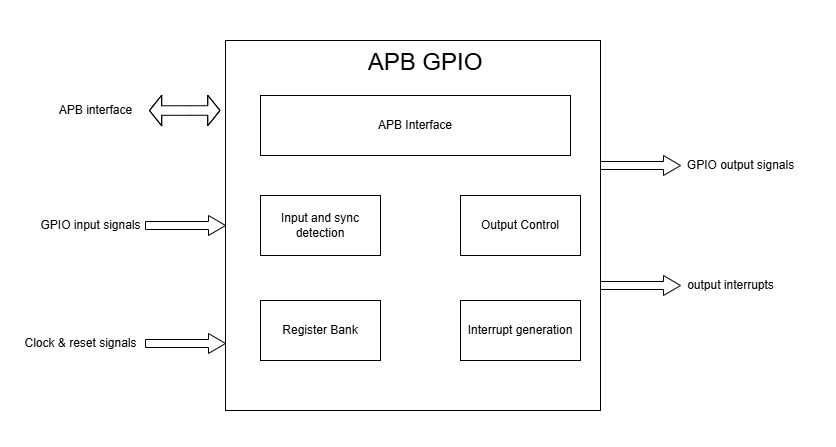
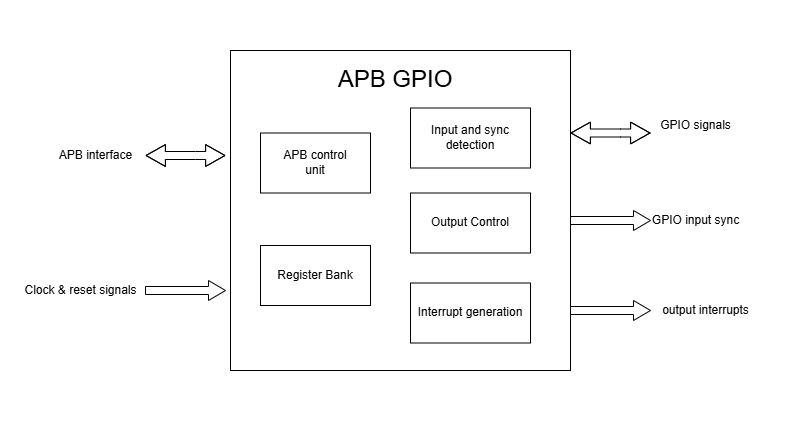
Updated diagrams and formatting in GPIO docs

diff --git a/docs/doc-src/ip-blocks/apb_gpio.rst b/docs/doc-src/ip-blocks/apb_gpio.rst
@@ -17,7 +17,7 @@
    ^^^^^^^
 .. _apb_gpio:
 
-APB_GPIO
+APB GPIO
 ========
 The General Purpose Input/Output (GPIO) IP block supports S/W access
 to read and write the values on selected I/O, and configuring selected
@@ -49,6 +49,15 @@ The figure below is a high-level block diagram of the APB GPIO module:-
 
    APB GPIO Block Diagram
 
+The figure below depicts the connections between the GPIO and rest of the modules in Core-V-MCU:-
+
+.. figure:: apb_gpio_soc_connections.png
+   :name: APB_GPIO_SoC_Connections
+   :align: center
+   :alt:
+
+   APB GPIO Core-V-MCU connections diagram
+
 The APB GPIO IP consists of the following key components:
 
 APB control logic
@@ -70,10 +79,15 @@ A dual-stage synchronizer prevents metastability issues when sampling external i
 
 Interrupt Generation Logic
 ^^^^^^^^^^^^^^^^^^^^^^^^^^
+GPIO pins can be used to receive the interrupt from the external device. Each GPIO pin may be configured for interrupt.
+
 The interrupt logic detects events based on the configured interrupt type for each pin:
   - Edge detection circuitry for rising and falling edges
   - Level detection for active-high and active-low signals
   - Interrupt blocking mechanism to prevent repeated level interrupts
+
+On detection of an event based on configuration, the corresponding interrupt pin is raised.
+APB master can acknowledge the interrupt by writing to the register REG_INTACK.
 
 Programming View Model
 ----------------------
@@ -117,6 +131,7 @@ output levels, and configure various GPIO settings.
 REG_SETGPIO
 ^^^^^^^^^^^
   - Address Offset: 0x000
+
 +----------------+--------------+----------+-------------+----------------------------------+
 | Field          | Bits         | Type     | Default     | Description                      |
 +================+==============+==========+=============+==================================+
@@ -126,6 +141,7 @@ REG_SETGPIO
 REG_CLRGPIO
 ^^^^^^^^^^^
   - Address Offset: 0x004
+
 +----------------+--------------+----------+-------------+----------------------------------+
 | Field          | Bits         | Type     | Default     | Description                      |
 +================+==============+==========+=============+==================================+
@@ -135,6 +151,7 @@ REG_CLRGPIO
 REG_TOGGPIO
 ^^^^^^^^^^^
   - Address Offset: 0x008
+
 +----------------+--------------+----------+-------------+----------------------------------+
 | Field          | Bits         | Type     | Default     | Description                      |
 +================+==============+==========+=============+==================================+
@@ -144,6 +161,7 @@ REG_TOGGPIO
 REG_PIN0
 ^^^^^^^^
   - Address Offset: 0x010
+
 +----------------+--------------+----------+-------------+----------------------------------+
 | Field          | Bits         | Type     | Default     | Description                      |
 +================+==============+==========+=============+==================================+
@@ -153,6 +171,7 @@ REG_PIN0
 REG_PIN1
 ^^^^^^^^
   - Address Offset: 0x014
+
 +----------------+--------------+----------+-------------+----------------------------------+
 | Field          | Bits         | Type     | Default     | Description                      |
 +================+==============+==========+=============+==================================+
@@ -163,6 +182,7 @@ REG_PIN1
 REG_PIN2
 ^^^^^^^^
   - Address Offset: 0x018
+
 +----------------+--------------+----------+-------------+----------------------------------+
 | Field          | Bits         | Type     | Default     | Description                      |
 +================+==============+==========+=============+==================================+
@@ -173,6 +193,7 @@ REG_PIN2
 REG_PIN3
 ^^^^^^^^
   - Address Offset: 0x01C
+
 +----------------+--------------+----------+-------------+----------------------------------+
 | Field          | Bits         | Type     | Default     | Description                      |
 +================+==============+==========+=============+==================================+
@@ -183,6 +204,7 @@ REG_PIN3
 REG_OUT0
 ^^^^^^^^
   - Address Offset: 0x020
+
 +----------------+--------------+----------+-------------+----------------------------------+
 | Field          | Bits         | Type     | Default     | Description                      |
 +================+==============+==========+=============+==================================+
@@ -192,6 +214,7 @@ REG_OUT0
 REG_OUT1
 ^^^^^^^^
   - Address Offset: 0x024
+
 +----------------+--------------+----------+-------------+----------------------------------+
 | Field          | Bits         | Type     | Default     | Description                      |
 +================+==============+==========+=============+==================================+
@@ -202,6 +225,7 @@ REG_OUT1
 REG_OUT2
 ^^^^^^^^
   - Address Offset: 0x028
+
 +----------------+--------------+----------+-------------+----------------------------------+
 | Field          | Bits         | Type     | Default     | Description                      |
 +================+==============+==========+=============+==================================+
@@ -212,6 +236,7 @@ REG_OUT2
 REG_OUT3
 ^^^^^^^^
   - Address Offset: 0x02C
+
 +----------------+--------------+----------+-------------+----------------------------------+
 | Field          | Bits         | Type     | Default     | Description                      |
 +================+==============+==========+=============+==================================+
@@ -222,6 +247,7 @@ REG_OUT3
 REG_SETSEL
 ^^^^^^^^^^
   - Address Offset: 0x030
+
 +----------------+--------------+----------+-------------+----------------------------------+
 | Field          | Bits         | Type     | Default     | Description                      |
 +================+==============+==========+=============+==================================+
@@ -232,6 +258,7 @@ REG_SETSEL
 REG_RDSTAT
 ^^^^^^^^^^
   - Address Offset: 0x034
+
 +----------------+--------------+----------+-------------+----------------------------------+
 | Field          | Bits         | Type     | Default     | Description                      |
 +================+==============+==========+=============+==================================+
@@ -254,6 +281,7 @@ REG_RDSTAT
 REG_SETDIR
 ^^^^^^^^^^
   - Address Offset: 0x038
+
 +----------------+--------------+----------+-------------+----------------------------------+
 | Field          | Bits         | Type     | Default     | Description                      |
 +================+==============+==========+=============+==================================+
@@ -269,6 +297,7 @@ REG_SETDIR
 REG_SETINT
 ^^^^^^^^^^
   - Address Offset: 0x03C
+
 +----------------+--------------+----------+-------------+----------------------------------+
 | Field          | Bits         | Type     | Default     | Description                      |
 +================+==============+==========+=============+==================================+
@@ -290,6 +319,7 @@ REG_SETINT
 REG_INTACK
 ^^^^^^^^^^
   - Address Offset: 0x040
+
 +----------------+--------------+----------+-------------+----------------------------------+
 | Field          | Bits         | Type     | Default     | Description                      |
 +================+==============+==========+=============+==================================+
@@ -414,7 +444,7 @@ APB Interface Signals
 GPIO Data Signals
 ^^^^^^^^^^^^^^^^^
 - gpio_in[31:0]: External GPIO input values from the physical pins.
-- gpio_in_sync[31:0]: Synchronized version of `gpio_in`.
+- gpio_in_sync[31:0]: Synchronized version of `gpio_in`, provides the external signals to Advanced timer block.
 - gpio_out[31:0]: Output values driven onto GPIO pins, if configured as outputs.
 - gpio_dir[31:0]: Direction control per pin; 1 = output, 0 = input (or high-impedance for open-drain).
 
